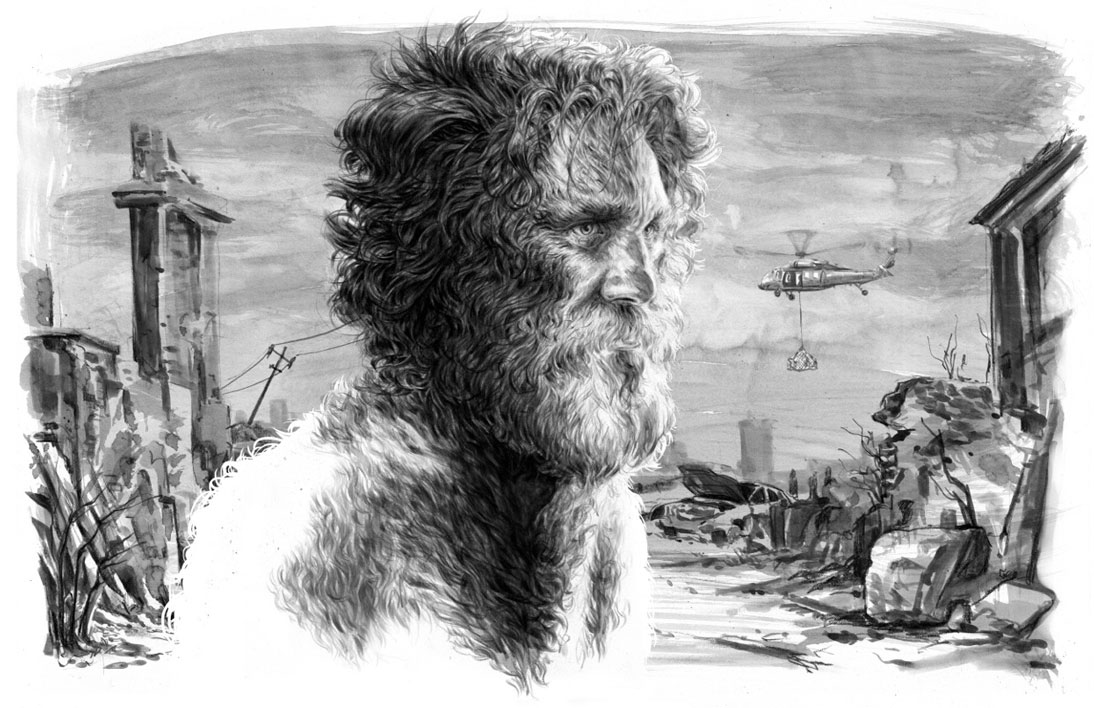
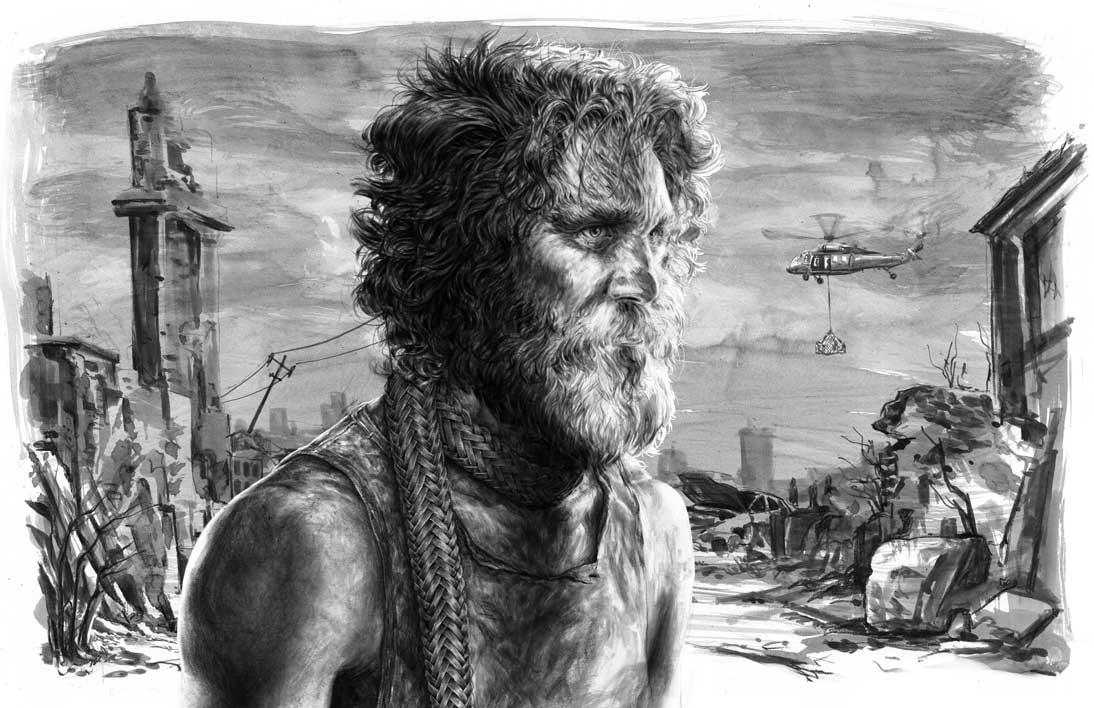
16th Commit
Tweaked Dog Days parallax
Added Traviata sprites

diff --git a/css/style.css b/css/style.css
@@ -1079,7 +1079,7 @@ footer#festival_info div#go-to-top a:hover{color:#e3e2da;}
 	div.px-container img#px-dogdays-helicopter{
 		height: 144px;
 		position: absolute;
-		left: 63%;
+		left: 70%;
 		top:160px; 
 	}
 
@@ -1091,7 +1091,46 @@ footer#festival_info div#go-to-top a:hover{color:#e3e2da;}
 	}
 
 	/* La Traviata */
-	
+	div.px-container img#px-traviata-background{
+		width: 100%;
+		min-height:708px;
+		position: absolute;
+		top: 0px;
+	}
+
+	div.px-container img#px-traviata-lefthand{
+		height: 360px;
+		position: absolute;
+		left: -30px;
+		top:120px;
+	}
+	div.px-container img#px-traviata-righthand{
+		height: 400px;
+		position: absolute;
+		right: -60px;
+		top:120px;
+	}
+
+	div.px-container img#px-traviata-leftcurtain{
+		height: 708px;
+		position: absolute;
+		left: 0px;
+		top:0px;
+	}
+	div.px-container img#px-traviata-rightcurtain{
+		height: 708px;
+		position: absolute;
+		right: 0px;
+		top:0px;
+	}
+
+	div.px-container img#px-traviata-girl{
+		height: 628px;
+		position: absolute;
+		left: 32%;
+		bottom:0px; 
+	}
+
 
 }
 

diff --git a/js/functions.js b/js/functions.js
@@ -175,9 +175,15 @@
 			//Dog Days
 				if (scrolled >= 900 && scrolled <= 1700) {
 					$('div.px-container #px-dogdays-landscape').css('width',(((scrolled-799)*.0125)+90) + '%');
-					$('div.px-container #px-dogdays-helicopter').css('left',(63+(-(scrolled-799)*.0125)) + '%');
+					$('div.px-container #px-dogdays-landscape').css('top',(60+(-(scrolled-799)*.025)) + 'px');
+					$('div.px-container #px-dogdays-helicopter').css('left',(70+(-(scrolled-799)*.0125)) + '%');
 					$('div.px-container #px-dogdays-man').css('height',(((scrolled-799)*.125)+708) + 'px');
 					$('div.px-container #px-dogdays-man').css('top',(100+(-(scrolled-799)*.075)) + 'px');
+				}
+
+			// La Traviata
+				if (scrolled >= 2100 && scrolled <= 2900) {
+					$('div.px-container #px-traviata-girl').css('left',(32+(-(scrolled-2099)*.025)) + '%');
 				}
 		 	
 		 	

diff --git a/index.html b/index.html
@@ -494,6 +494,22 @@
 				<p>DETAILS</p>
 			</a>
 		</div>
+
+		<div class="px-container" id="px-traviata">
+			<img class="px-traviata_img" id="px-traviata-background" src="img/px-traviata_background.jpg" />
+			
+			<img class="px-traviata_img" id="px-traviata-lefthand" src="img/px-traviata_lefthand.png" />
+			<img class="px-traviata_img" id="px-traviata-righthand" src="img/px-traviata_righthand.png" />
+
+			<img class="px-traviata_img" id="px-traviata-leftcurtain" src="img/px-traviata_leftcurtain.png" />
+			<img class="px-traviata_img" id="px-traviata-rightcurtain" src="img/px-traviata_rightcurtain.png" />
+
+
+
+			<img class="px-traviata_img" id="px-traviata-girl" src="img/px-traviata_girl.png" />
+			
+
+		</div>
 		
 		<div class="container">
 			<div class="top-border image-container"></div>
